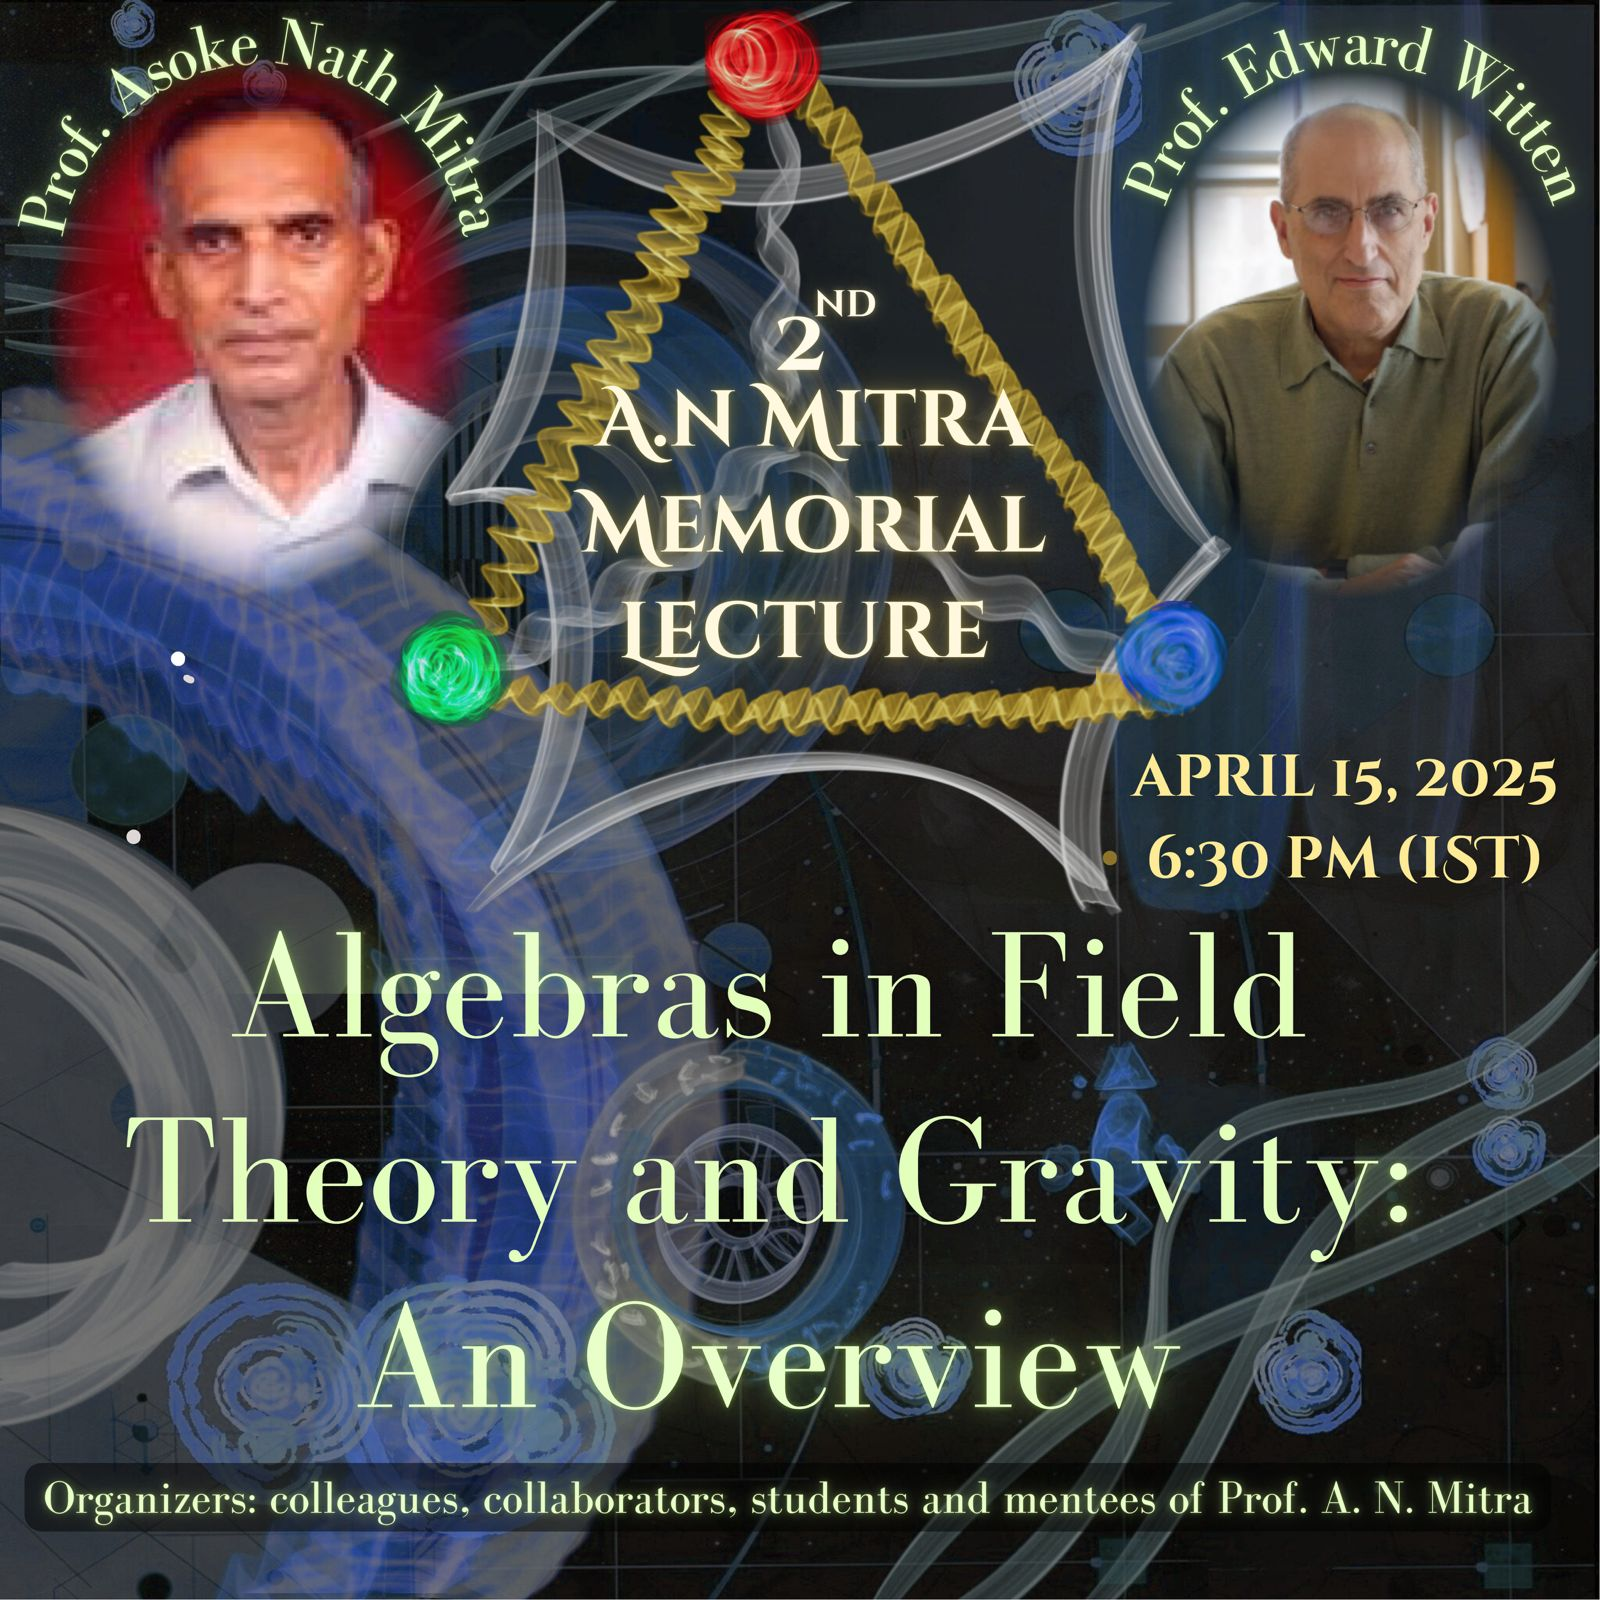
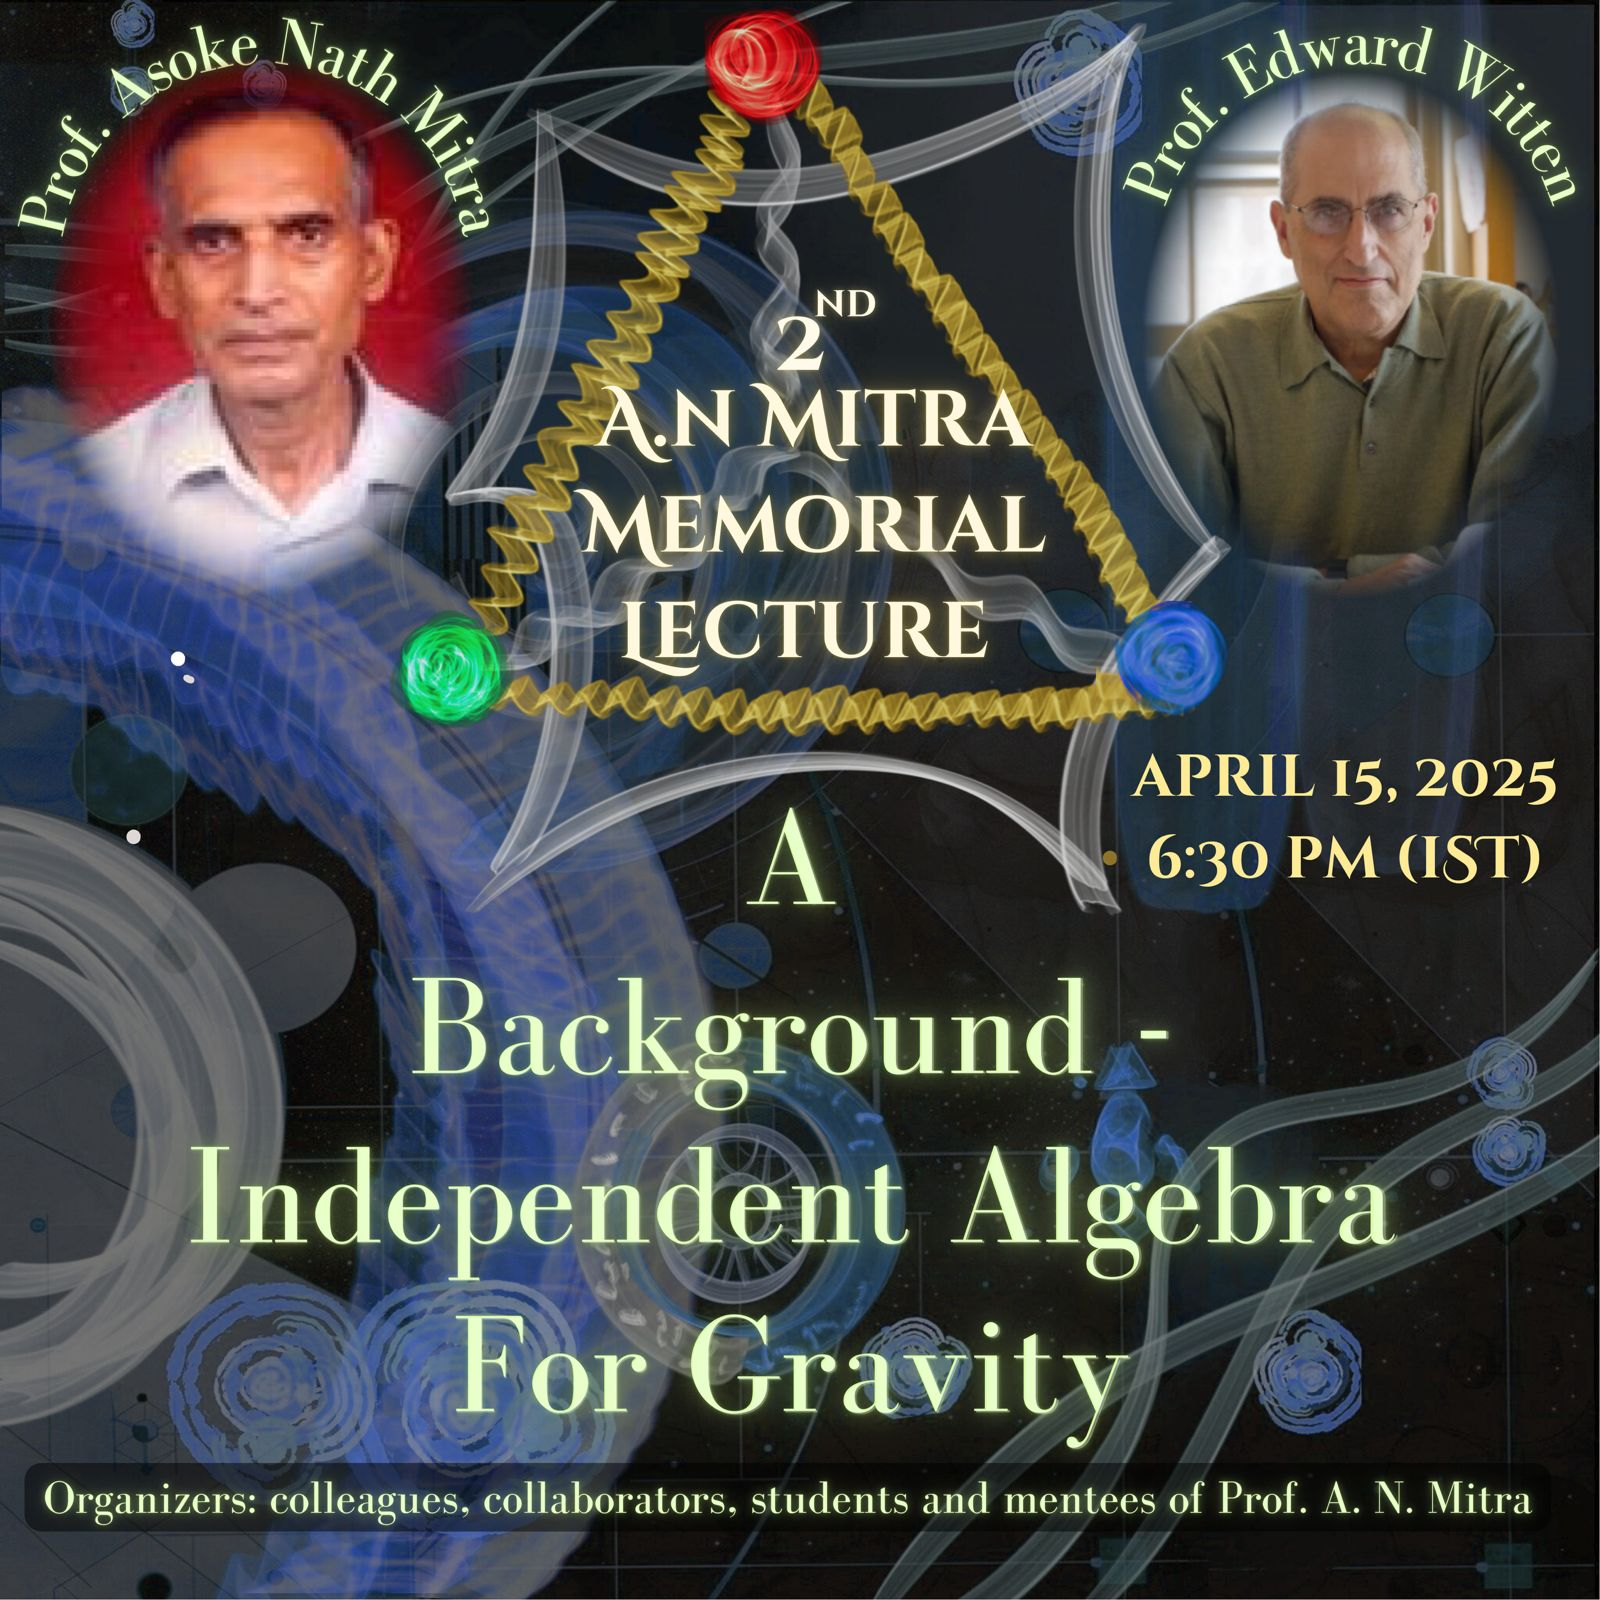
Ed witten lecture title change

Changed region(s): [[0.0625, 0.5, 0.875, 0.9062]]

diff --git a/templates/WittenLecture.html b/templates/WittenLecture.html
@@ -97,7 +97,9 @@
         </div>
         <div class="hero-text" style="color: white;">
             <!-- <h3 style="color: #fff;">A Background - Independent Algebra For Gravity</h3> -->
-            <h3 style="color: #fff;">Algebras in Field Theory and Gravity: An Overview</h3>
+            <!-- <h3 style="color: #fff;">Algebras in Field Theory and Gravity: An Overview</h3> -->
+            <h3 style="color: #fff;">A Background Independent Algebra for Gravity</h3>
+
             <div id="author-name">Edward Witten</div>
             <!-- <pre style="margin-top: -20px; font-size: 20px;">Edward Witten</pre> -->
 
@@ -112,8 +114,14 @@
             <h4>Abstract</h4>
             <!-- <p>In this lecture, I will discuss recent progress in the development of a background-independent formulation of algebraic gravity. This approach is based on the idea of using algebraic structures to describe the geometry of spacetime without reference to a fixed background metric. I will explain how this framework can be used to study the dynamics of gravitational fields and the structure of spacetime at the quantum level. I will also discuss the implications of this work for our understanding of the nature of gravity and the fundamental structure of the universe.</p> -->
             <blockquote>
-                <br style="height: 0px;"> I will discuss general properties of the algebra of the observables in a region or accessible to an observer in ordinary quantum field theory and in the presence of gravity. <br><br>
+                <br style="height: 0px;"> I consider the algebra of observables along the world-line of an observer as a background independent algebra in quantum gravity.<br><br>
             </blockquote>
+            <!-- <blockquote>
+                <br style="height: 0px;"> I will discuss general properties of the algebra of the observables in a region or accessible to an observer in ordinary quantum field theory and in the presence of gravity. <br><br>
+            </blockquote> -->
+
+
+
             <!-- <p>To be announced </p> -->
             <!-- <h4>Date & Time</h4>
             <p>15<sup>th</sup> April 2025, 6:30 PM IST</p> -->

diff --git a/index.html b/index.html
@@ -151,7 +151,7 @@
         <div class="hero-text" style="color: white; vertical-align: top;">
             <!-- <h1 style="color: rgb(233, 190, 0); font-weight: lighter;"> 2<sup>nd</sup> A. N. Mitra Memorial Lecture</h1> -->
             <h1 style="color: rgb(233, 190, 0); font-weight: lighter; margin-bottom: 0; padding-bottom: 0;"> Edward Witten </h1> <h1 style="padding-top: 0; font-size: max(3vw, 20px); margin-top: 0; color: white">A. N. Mitra Memorial Lecture</h1>
-            <p id="about-lecture" style="color: rgb(255, 249, 199);word-wrap: break-word;">This memorial lecture will be delivered by Professor Edward Witten on the topic "Algebras in Field Theory and Gravity: An Overview". This is the second A. N. Mitra memorial lecture. The <a href="https://www.youtube.com/watch?v=4kn6BwdyA14">inaugural memorial lecture</a> was given by Prof. N. Panchapakesan on Apr 17, 2023, and was organized by the Department of Physics, University of Delhi.</p>
+            <p id="about-lecture" style="color: rgb(255, 249, 199);word-wrap: break-word;">This memorial lecture will be delivered by Professor Edward Witten on the topic "A Background Independent Algebra for Gravity". This is the second A. N. Mitra memorial lecture. The <a href="https://www.youtube.com/watch?v=4kn6BwdyA14">inaugural memorial lecture</a> was given by Prof. N. Panchapakesan on Apr 17, 2023, and was organized by the Department of Physics, University of Delhi.</p>
 
             <div class="buttons" id="learn-more-lec-button">
                 <a href="./templates/WittenLecture.html" style="margin-top: 3vw; color: #ff3864;" class="type2">Learn More</a>

diff --git a/templates/schedule.html b/templates/schedule.html
@@ -459,7 +459,8 @@
 
                 <div class="card" id="Witten">
                     <div class="speaker"><p><a target="_blank" href="https://en.wikipedia.org/wiki/Edward_Witten">Edward Witten</a></p></div>
-                    <div class="topic"><p><strong>Title: </strong><a href="./WittenLecture.html" id="wittit">A.N. Mitra Memorial Lecture - Algebras in Field Theory and Gravity: An Overview</a></p></div>
+                    <!-- <div class="topic"><p><strong>Title: </strong><a href="./WittenLecture.html" id="wittit">A.N. Mitra Memorial Lecture - Algebras in Field Theory and Gravity: An Overview</a></p></div> -->
+                    <div class="topic"><p><strong>Title: </strong><a href="./WittenLecture.html" id="wittit">A.N. Mitra Memorial Lecture - A Background Independent Algebra for Gravity</a></p></div>
                     <div class="time"><p><strong>Time: </strong>15 April 2025</p><p>6:15 – 6:30 PM IST: A brief introduction to the event and the speaker</p>
                     <p>6:30 - 8:00 PM IST: Lecture</p></div>
                     <div class="links">
@@ -469,7 +470,7 @@
                     </div>
                     <div class="abstract">
                         <button onclick="toggleAbstract(this)">View Abstract</button>
-                        <p><b>Abstract: </b>N.A.</p>
+                        <p><b>Abstract: </b>I consider the algebra of observables along the world-line of an observer as a background independent algebra in quantum gravity.</p>
                     </div>
                 </div>
 
